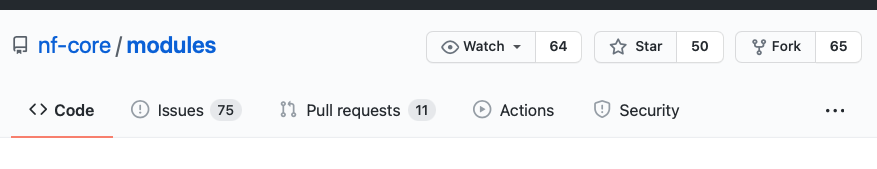
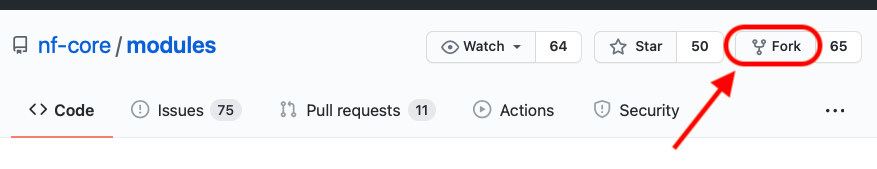
progressing with dsl2 tutorial

Changed region(s): [[0.7697, 0.1183, 0.9544, 0.8876], [0.8005, 0.2071, 0.8312, 0.3254]]

diff --git a/markdown/tutorials/dsl2_modules_tutorial.md b/markdown/tutorials/dsl2_modules_tutorial.md
@@ -20,30 +20,86 @@ In this tutorial we will see how to create a new module for the nf-core modules 
 
 ## Introduction
 
+If you create a new module with the goal of contributing the code to *nf-core*, we recommend to familiarise with the community guidelines and use *nf-core tools* as explained below.
 
+### Module guidelines
 
-### module guidelines
-
-[nf-core guidelines](https://github.com/nf-core/modules#guidelines)
+The nf-core community has agreed on a minimal set of [guidelines](https://github.com/nf-core/modules#guidelines), intended to make module most suitable for general use, i.e. to be shared across a wide variety of community workflows.
 
 ### nf-core tools
 
-Using [nf-core tools](https://nf-co.re/tools) is the best way to follow the guidelines without worrying too much and writing things from scratch.
+Using [nf-core tools](https://nf-co.re/tools) is the best way to adhere to the guidelines, without worrying too much and writing things from scratch.
 On the website you can find more details about [installation](https://nf-co.re/tools#installation), and all functionalities for [modules](https://nf-co.re/tools#modules).
 
 ## Fork the Modules Repo and branch
 
+The first step, to contribute a module to the community repository is to fork *nf-core modules into your own account or organisation. To do this, you should click on the top-right of the nf-core modules repository, and choose "fork" as shown in the figure below.
 
 ![fork](assets/dsl2-mod_01_fork.png)
 
+You then choose the account or organisation you want to fork the repository into. Once forked, you can commit all changes you need into the new repository.
+
+In order to create a new module, it is best to branch the code into a recognisable branch. You can do this in two ways.
+
+- you can create a new branch locally, on the terminal, using the following command
+
+```
+git checkout -b newmodule
+```
+The branch will be syncronised with your remote once you push the first new commit.
+
+- you can use the github interface
+
+To do this, you can select the dropdown menu on the top-left of your repository code, write the name of the new branch and choose to create it as shown in the figure below.
 
 ![branch](assets/dsl2-mod_02_new_branch.png)
 
+You will then sync this locally (ideally, you clone the forked repository on your working environment to edit code more comfortably)
+
+
 ## Create the module template
+
+Using *nf-core tools* it is very easy to create a new module. In our example, we change directory into the repository (*modules*) and we type
+
+```
+nf-core modules create -t fgbio/fastqtobam
+```
+You will notice that with `-t` we indicate the name of the new module we want to create using the following syntax:
+
+- the first word indicates the tool (i.e. the software or suite)
+- we separate the keys by a forward slash ("/")
+- the second word indicates the function of the tool we are creating a module for
+
+Magic will happen now: nf-core tools will create the following entries for the code of the module itself
+
+```
+software/fgbio
+└── fastqtobam
+    ├── functions.nf
+    ├── main.nf
+    └── meta.yml
+```
+
+And also the following for the testing of the module
+
+```
+tests/software/fgbio
+└── fastqtobam
+    ├── main.nf
+    └── test.yml
+```
+
+Each of the files is pre-filled according to a defined nf-core template.
+
+You fill find a number of commented section in the file, to help you modify the code while adhering to the guidelines, as you can appreciate in the following figure.
+
 
 ![module](assets/dsl2-mod_03_create_module.png)
 
+The above represents the main code of your module, which will need to be changed.
+NF-core tools will attempt at retrieving the correct containers (for Docker and for Singularity) as well as the Conda recipe, and those fiels will be pre-filled for you.
 
+Now you just have to write the code.
 ## Write the code
 
 
